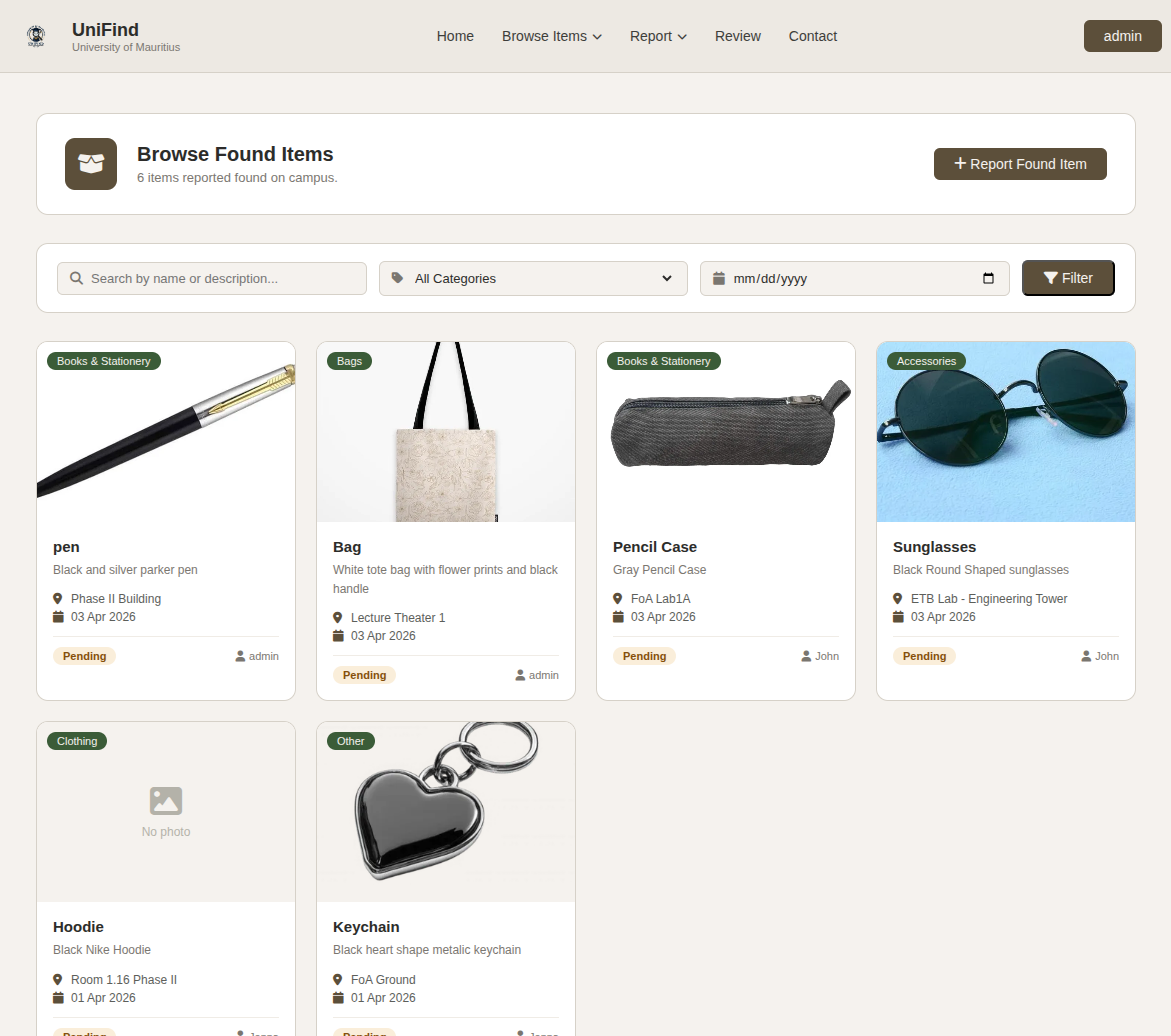
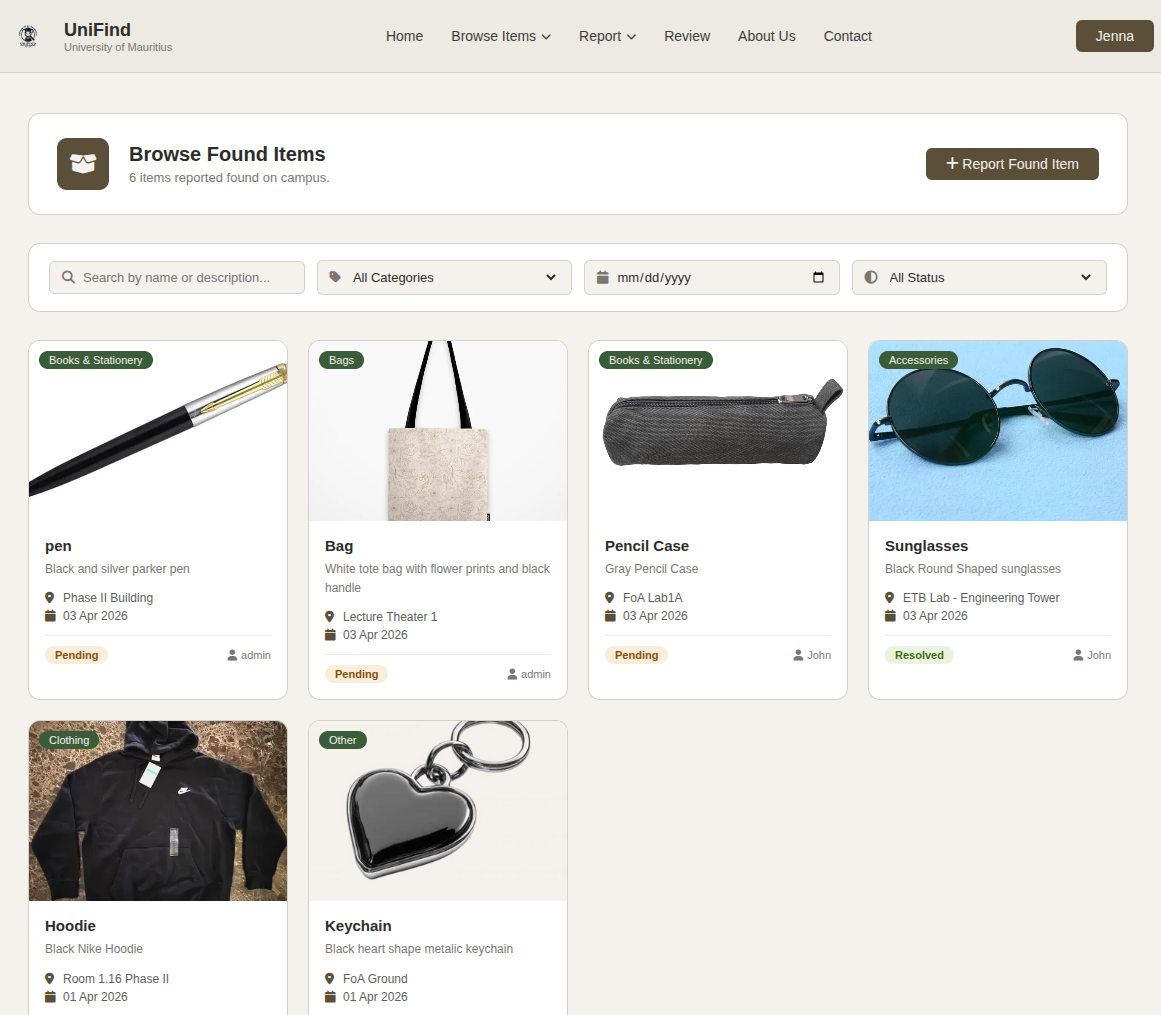
M: README.md

diff --git a/README.md b/README.md
@@ -17,11 +17,11 @@
 - [Inspiration](#inspiration)
 
 ## Overview
-
 **UniFind** is a full-stack Lost & Found management system designed to help UoM students and staff report, search, and recover lost or found items efficiently.
 
-The system provides a **RESTful API** built with Django REST Framework, allowing seamless integration with web or mobile frontends.
+The platform introduces a structured, admin-assisted recovery process, ensuring secure and verified item claims between users.
 
+The system provides a RESTful API built with Django REST Framework, enabling easy integration with web or mobile applications.
 ## Screenshots
 
 ### Home Page
@@ -36,6 +36,9 @@ The system provides a **RESTful API** built with Django REST Framework, allowing
 
 ![Found Items](screenshots/found-items.png)
 
+### Item Details Page
+![Item Details](screenshots/item-detail.png)
+
 ### Report Item Form
 
 ![Report Item](screenshots/report-item.png)
@@ -43,6 +46,18 @@ The system provides a **RESTful API** built with Django REST Framework, allowing
 ### Review Page
 
 ![Review Page](screenshots/review.png)
+
+### Contact Page
+
+![Contact Page](screenshots/contact.png)
+
+### Profile Page
+
+![Profile Page](screenshots/profile.png)
+
+### Admin Page
+
+![Admin Page](screenshots/admin.png)
 
 ## Features
 
@@ -52,13 +67,26 @@ The system provides a **RESTful API** built with Django REST Framework, allowing
 * Report **lost items**
 * Report **found items**
 * Browse all lost and found items
-* Contact system
+* Submit item recovery requests
+* Contact system for support
 * Leave reviews and feedback
+
+## Request & Recovery Flow
+* Users can interact directly with items:
+  * Lost item → “I found this item”
+  * Found item → “Claim this item”
+* Requests are linked to specific items
+* Users must provide supporting details when submitting a request
+* Admin acts as an intermediary between both parties
+* Ensures safe and verified item recovery 
 
 ### Admin Features
 
 * Manage lost & found listings
-* Respond to user messages
+* Review and verify recovery requests
+* Approve or reject claims
+* Act as a middleman between users
+* Respond to contact messages
 * Moderate reviews and replies
 
 ### API Features
